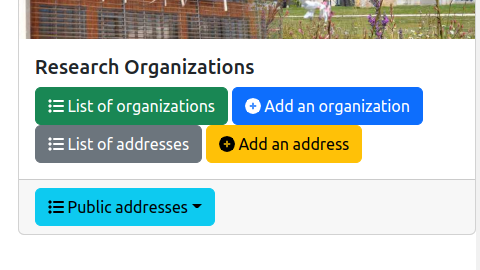
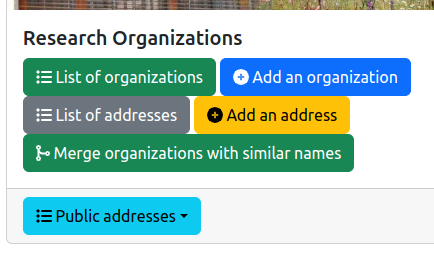
Add documentation for the organization merging tool.
close #135

diff --git a/docs/organizations.md b/docs/organizations.md
@@ -10,6 +10,7 @@ As it is illustrated on the figure above, two features are provided:
 
 * `List of organizations`: display the list of all the research organizations.
 * `Add an organization`: add a research organization in the information system.
+* `Merge organizations with similar names`: detect the organizations which have similar names and propose to merge them (see Section 5).
 
 
 ## 2. Types of organizations
@@ -67,4 +68,23 @@ The backend software provides a form for editing or adding an organization in th
 * `Addresses of the organization`: the list of addresses that are associated to the research organization. You could add an address by clicking on the `+` and removing an address by clicking on the trash symbol.
 * `Website address`: the URL of the official website of the organization.
 * `Super-organization`: the name of the organization in which the current organization is located.
+
+
+## 5. Merge organizations with similar names
+
+For some reasons, two organizations in the information system may corresponds to the same real organization. It may be caused by misspells in the names.
+
+The platform provides a tool for merging the "similar" names into a single entry in the information system, without loosing information (projects, etc.). After analysing the database content, this tool shows the duplicate persons in a table:
+
+![Duplicate organizations](organizations4.png)
+
+In this table, the similar names are grouped (as illustrated on the figure above).
+Then, you have the choice to ignore the group if you think they are not really duplicates.
+Or, you could decide to fix the duplicate issue by choosing one of the following actions:
+
+* **Deletion:** Delete a name by clicking on the "trash" icon.
+* **Total merging:** Merge **all** the names into a single name that corresponds to the line on which you are clicking on the "double arrow" icon. In this case, all the informations associated to the names will be associated to the selected name after merging.
+* **Partial merging:** Merge **some** names into a single name that corresponds to the line on which you are clicking on the "single arrow" icon. In this case, all the informations associated to the checked names (see the figure below) will be associated to the selected name after merging.
+
+![Partial merging](organizations5.png)
 
